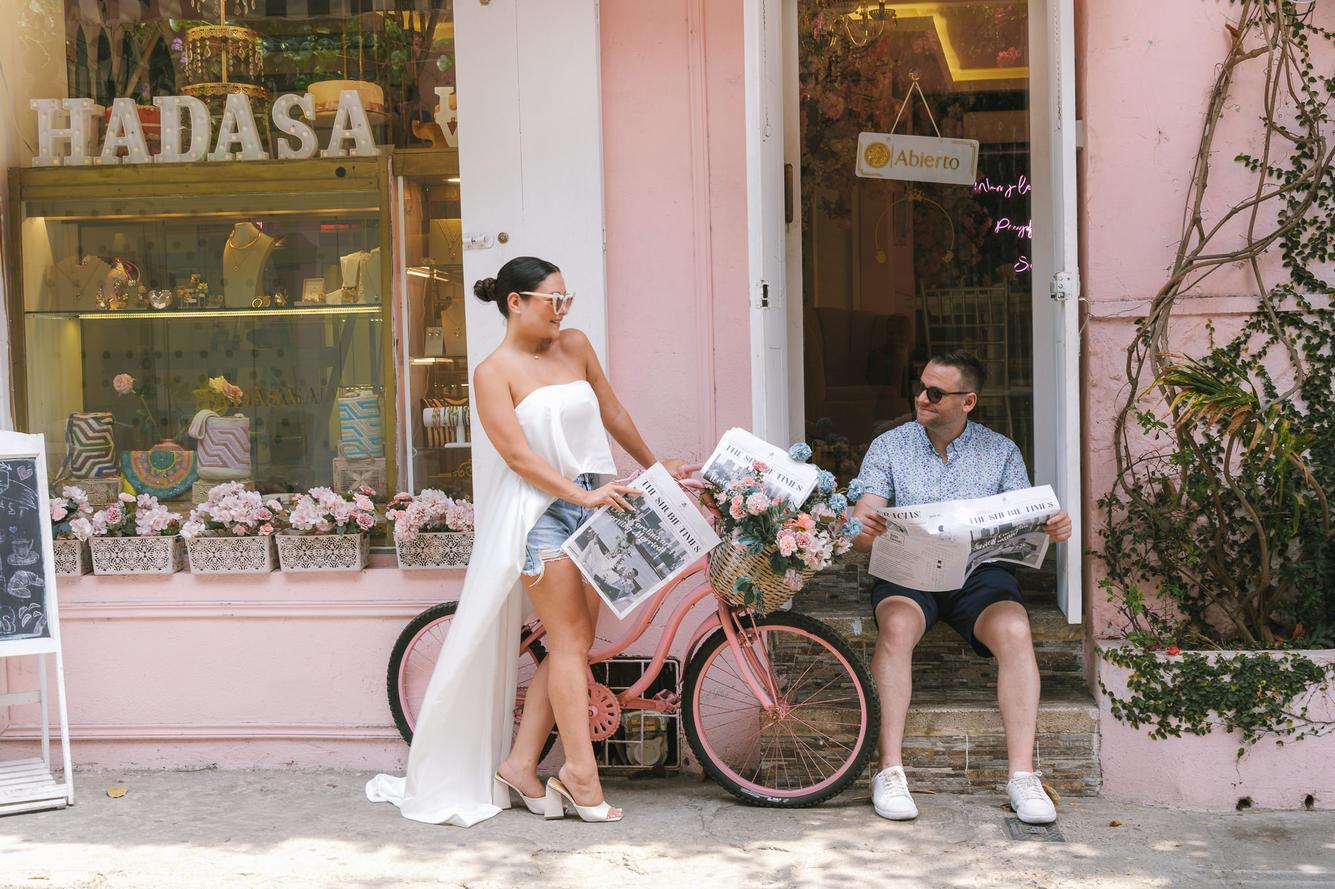
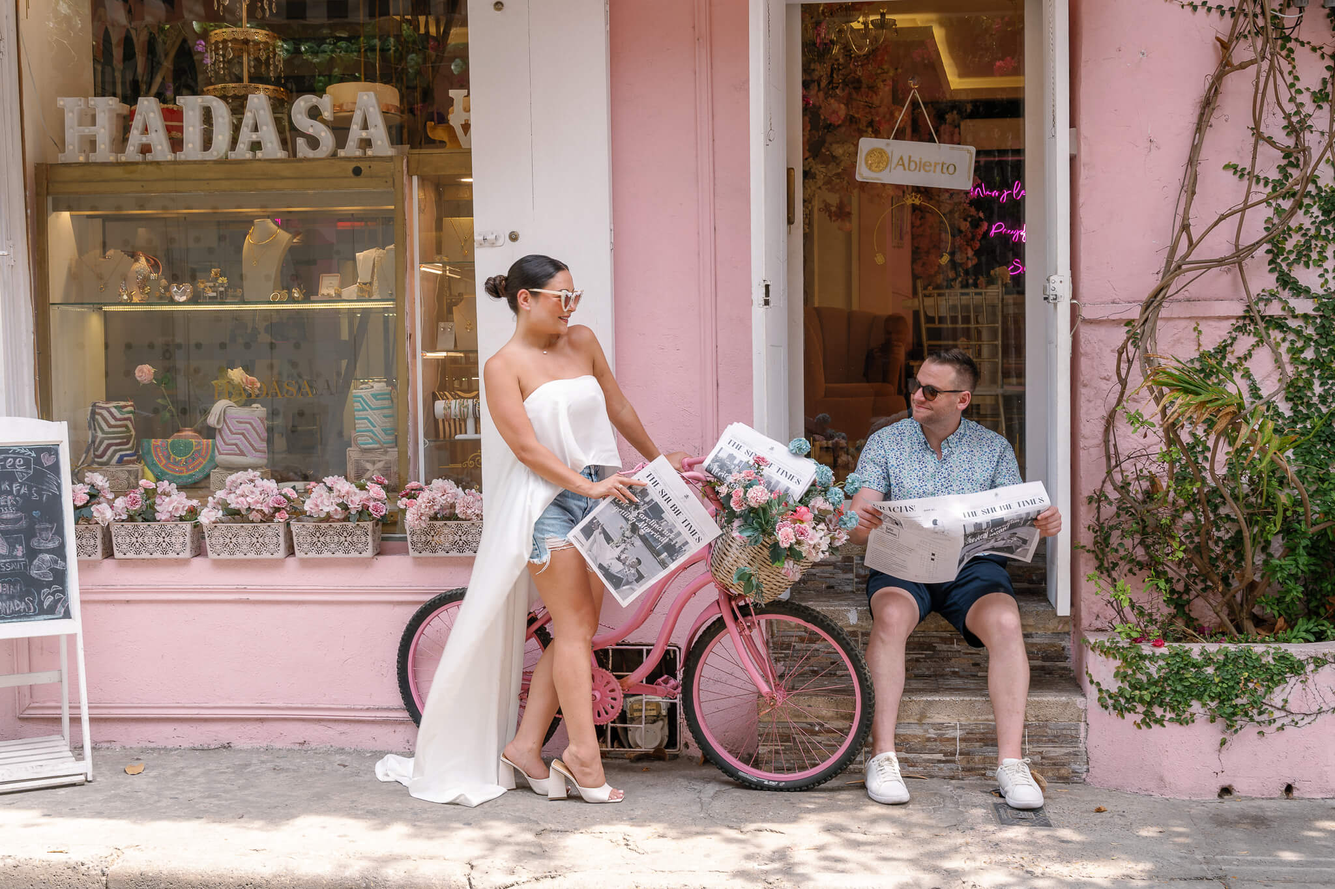
efsc

diff --git a/index.html b/index.html
@@ -92,7 +92,7 @@
   </div>  
   <div class="home-banner ">
     <div class="home-banner-img-div">
-      <img class="img3" src="/img/Weddings/wed107.jpg" fetchpriority=”high” alt="">
+      <img class="img3" src="/img/Weddings/wed106.jpg" fetchpriority=”high” alt="">
     </div>
     <p class="home-banner-text"> <span class="banner-span relaxed"></span> <span class="and"></span> <span class="banner-span honest">Joyful</span> <br>LOVE STORIES</p>  
     <p class="home-banner-subtext">New York Wedding Photographer</p>
